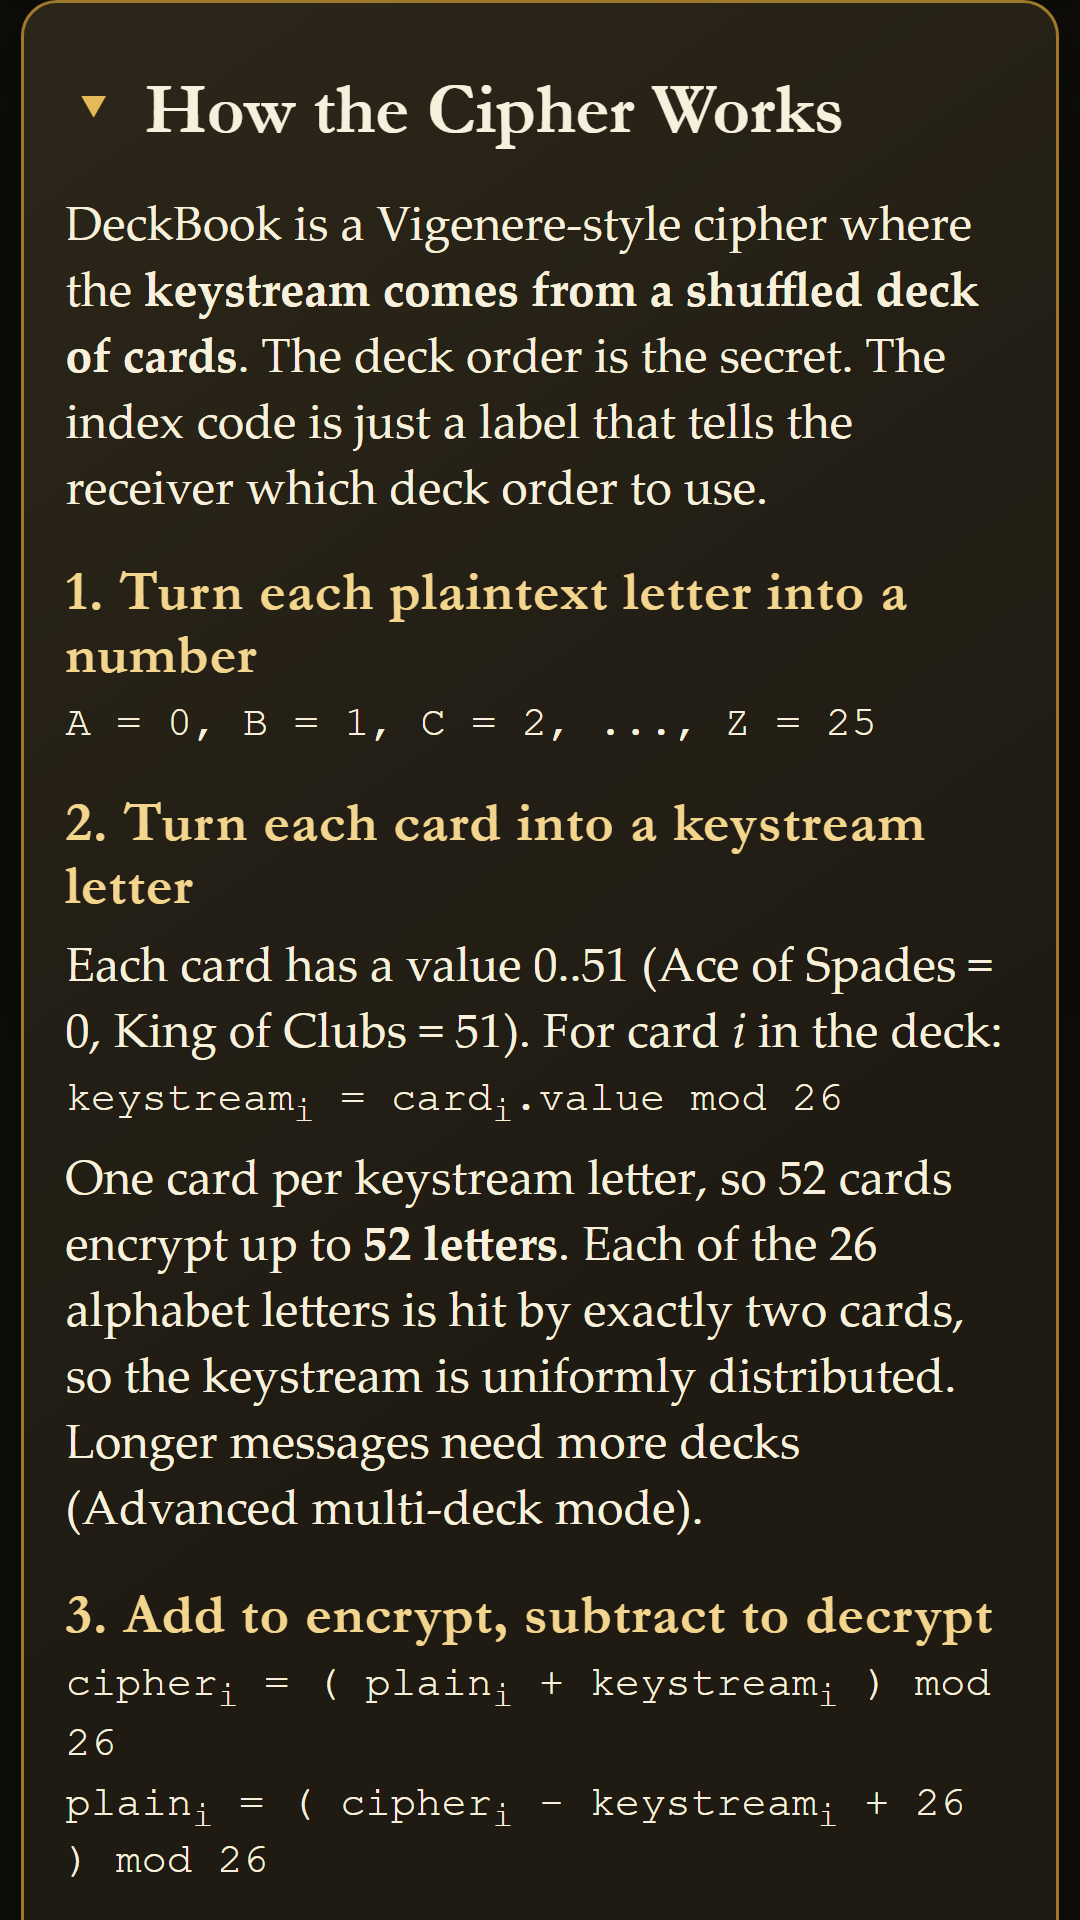
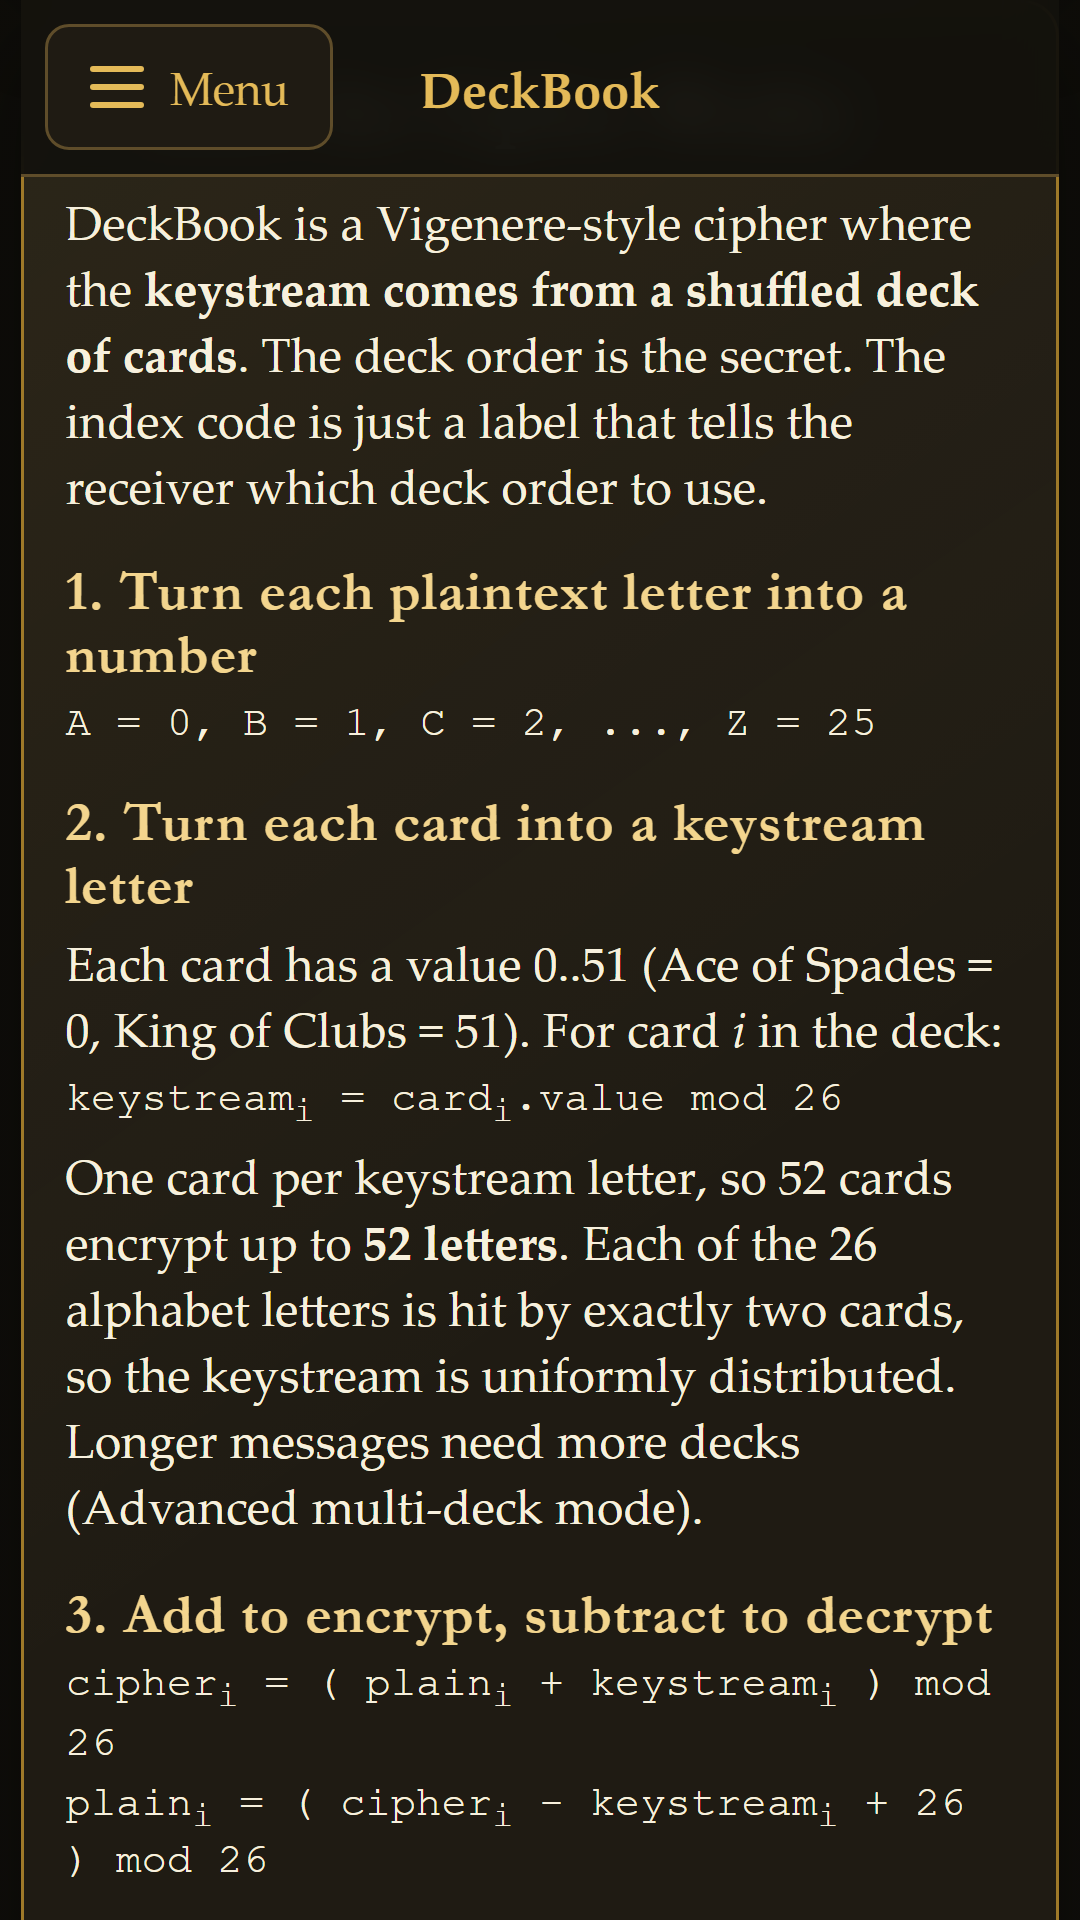
feat: center the app title in the native bar; refresh store screenshots
- Center "DeckBook" in the hamburger bar via a 1fr/auto/1fr grid so it's
  no longer crowded against the Menu button.
- store-assets.mjs now boots the app as the native shell, so the generated
  Play screenshots show the real hamburger chrome. Regenerated all four.

diff --git a/src/styles.css b/src/styles.css
@@ -118,14 +118,24 @@ body.native-app .app-nav {
   position: sticky;
   top: 0;
   z-index: 30;
-  display: flex;
+  /* Burger on the left, title centered, an empty balancing cell on the right. */
+  display: grid;
+  grid-template-columns: 1fr auto 1fr;
   align-items: center;
-  gap: 0.75rem;
   margin: 0 0 0.75rem;
   padding: calc(0.5rem + env(safe-area-inset-top)) 0.5rem 0.5rem;
   background: color-mix(in srgb, var(--bg) 92%, transparent);
   backdrop-filter: blur(8px);
   border-bottom: 1px solid var(--panel-border);
+}
+
+body.native-app .app-nav-toggle {
+  justify-self: start;
+}
+
+body.native-app .app-nav-title {
+  grid-column: 2;
+  justify-self: center;
 }
 
 body.native-app .app-nav-toggle {
